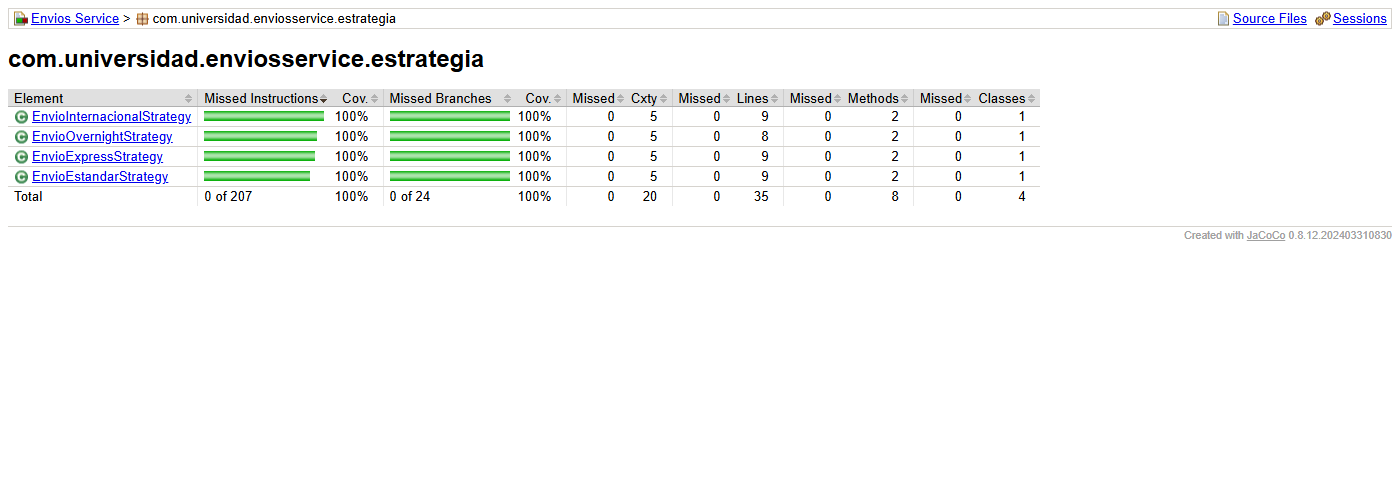
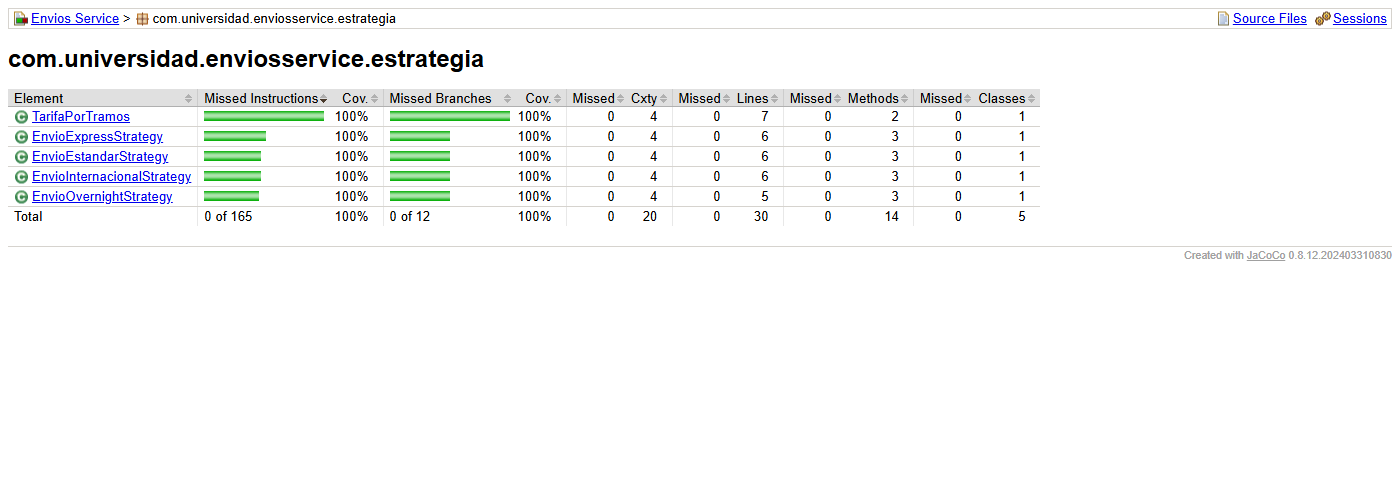
docs: actualizar README y capturas tras eliminar la duplicacion entre estrategias

diff --git a/README.md b/README.md
@@ -13,8 +13,9 @@ es medible.
 
 SonarQube Community Build 100 % local, en Docker (`sonarqube:community`, puerto 9000), versión del servidor
 26.11.0.134175, con el proyecto `Envios Service` (key `com.universidad:envios-service`).
-Las capturas y todas las cifras de este documento salen de dos ejecuciones reales de `mvn clean verify sonar:sonar`
-contra ese servidor (fecha de los análisis: 13 de noviembre de 2026).
+Las capturas y todas las cifras de este documento salen de tres ejecuciones reales de `mvn clean verify sonar:sonar`
+contra ese servidor, todas el 13 de noviembre de 2026: la versión `1.0` (código original), la `2.0` tras el refactor
+a Strategy y la `2.0` otra vez tras extraer la tarifa por tramos a un helper compartido para eliminar la duplicación.
 
 ## Estado inicial del análisis (Parte 1)
 
@@ -53,7 +54,7 @@ desde cualquier equipo, pero un proyecto público es visible para cualquiera y e
 ### 2. Exclusiones del análisis: ninguna
 
 No se usa `sonar.exclusions`. El proyecto no tiene clase `Main` ni código de arranque o de configuración: todas
-las clases (`ServicioCalculoEnvio` y, tras la Parte 2, las cuatro estrategias) son lógica de negocio, y excluir
+las clases (`ServicioCalculoEnvio` y, tras la Parte 2, las cuatro estrategias y el helper `TarifaPorTramos`) son lógica de negocio, y excluir
 cualquiera ocultaría justamente el código cuya calidad se quiere medir. Si más adelante apareciera una clase de
 arranque sin lógica propia, excluirla evitaría que su ausencia de pruebas distorsione el porcentaje global.
 
@@ -74,9 +75,16 @@ Se contrastó la naturaleza real de los condicionales de `calcularCosto()` con l
 Qué se movió y qué se quedó, y por qué:
 
 - **A las estrategias** (`EnvioEstandarStrategy`, `EnvioExpressStrategy`, `EnvioOvernightStrategy`,
-  `EnvioInternacionalStrategy`): la tarifa por tramos de peso y los recargos que dependen del método (distancia
-  mayor a 500 km en ESTANDAR y EXPRESS, multiplicador 1,3 de EXPRESS, restricción de 300 km de OVERNIGHT, recargo de
-  5 000 km de INTERNACIONAL). Es lo que cambia cuando cambia "qué fórmula usar".
+  `EnvioInternacionalStrategy`): solo lo propio de cada método de envío, es decir, sus parámetros de tarifa (una
+  constante `TARIFA`) y los recargos o restricciones que dependen del método (distancia mayor a 500 km en ESTANDAR y
+  EXPRESS, multiplicador 1,3 de EXPRESS, restricción de 300 km de OVERNIGHT, recargo de 5 000 km de INTERNACIONAL).
+  Es lo que cambia cuando cambia "qué fórmula usar".
+- **Al helper compartido** (`TarifaPorTramos`, un `record` del paquete `estrategia` con `porKm`, `cargoFijo`,
+  `tarifaTramo2` y `tarifaTramo3`): el cálculo lineal por tramos de peso (≤ 5 kg, ≤ 20 kg, > 20 kg), que las cuatro
+  estrategias tenían escrito con la misma estructura y solo cambiaban los números. En el primer análisis de la
+  versión 2.0 esa repetición hizo fallar el Quality Gate por duplicación (10,9 %); al extraerla, cada estrategia
+  se reduce a "tarifa + lo propio" y el patrón Strategy no cambia: el orquestador sigue eligiendo una estrategia
+  por método de envío.
 - **Al orquestador** (`ServicioCalculoEnvio`): la fragilidad (+15 %) y el descuento por tipo de cliente. Son
   reglas transversales: se aplican igual a todos los métodos de envío. Meterlas en cada estrategia las
   duplicaría cuatro veces y obligaría a tocar cuatro clases cada vez que cambie el descuento PREMIUM.
@@ -84,6 +92,12 @@ Qué se movió y qué se quedó, y por qué:
 Por eso la complejidad de `calcularCosto()` no baja a 1: su CC esperada es 5 (1 base + estrategia nula +
 fragilidad + los dos tramos de `tipoCliente`), dentro del rango "Moderada" de la Tabla 3.2 de la guía.
 Resultado medido: 20 → 5.
+
+CC medida de las clases nuevas en el análisis final: cada estrategia vale **2** (1 base + su único recargo o
+restricción) y `TarifaPorTramos.costo()` vale **3** (1 base + los dos límites de peso). En el primer análisis de la
+versión 2.0, cuando cada estrategia tenía sus propios tramos, cada una medía 4. `TarifaPorTramos` no tiene pruebas
+propias: sus tres tramos y sus límites quedan cubiertos al 100 % por las pruebas de las cuatro estrategias, que no
+se modificaron.
 
 ### 5. Criterio de las pruebas agregadas
 
@@ -128,7 +142,7 @@ exactamente el mismo costo o la misma excepción con el mismo mensaje.
 - **Por qué CC = 10 por método y no 5 o 20.** Según la Tabla 3.2 de la guía, 10 es el techo del rango "Moderada"
   (5–10) y 20 es el techo del rango "Alta": con 20 el método original (CC = 20) habría estado en el
   límite y nada habría obligado a refactorizarlo; con 5 se exigiría reescribir métodos todavía razonables de
-  mantener, como cada estrategia (CC = 4) más cualquier cambio futuro. Con 10 el método original se señala
+  mantener, como `TarifaPorTramos.costo()` (CC = 3) o cada estrategia (CC = 2), más cualquier cambio futuro. Con 10 el método original se señala
   claramente y los resultantes pasan con margen. 10 es además el valor por defecto del parámetro de la regla S1541.
 - **Por qué 70 % de cobertura y no 100 %.** Exigir 100 % empuja a escribir pruebas triviales solo para llenar el
   número (los incentivos perversos de la Sección 2.3 de la guía); 70 % deja margen para código de
@@ -138,28 +152,40 @@ exactamente el mismo costo o la misma excepción con el mismo mensaje.
 - **Qué mide y qué no.** El gate de cobertura mide ejecución, no verificación: una suite con aserciones vacías
   también lo pasaría, por eso el criterio de la Decisión 5 (valores esperados calculados e independientes) es
   complementario y no está en el gate.
-- **Resultado del gate en el segundo análisis: Failed.** Detalle de cada condición según `api/qualitygates/project_status`:
-
-  - **Coverage (código total): cumple.** Valor real 100,0 % frente al mínimo de 70 % (48 de 48 líneas y 32 de 32 ramas).
-  - **New Code Smells (código nuevo desde la versión 1.0): cumple.** Valor real 0; ningún método supera CC = 10 (el máximo es 5), así que S1541 no levanta issues.
-  - **Duplicated Lines (%) (código total): falla.** Valor real 10,9 % frente al máximo de 5 %. Son 24 líneas duplicadas de 221: un bloque de 12 líneas (líneas 5–16) que el detector de duplicados (CPD) encuentra idéntico en `EnvioEstandarStrategy` y `EnvioExpressStrategy`. CPD compara la estructura e ignora los literales, y ambas estrategias tienen exactamente la misma forma: tres tramos de peso más un recargo por encima de 500 km, con tarifas distintas. El denominador incluye las 77 líneas de `pom.xml`; sin él el porcentaje sería aún mayor. No hay Code Smells que corregir y la duplicación no se puede eliminar sin cambiar el diseño (habría que introducir una clase base de "tarifa por tramos" o una tabla de tarifas, algo que el laboratorio no pide), por eso no se siguió refactorizando y el umbral no se bajó. El gate cumple su función: señala una deuda real que la métrica de complejidad no muestra.
+- **Resultado del gate en el primer análisis de la versión 2.0 (tras el refactor a Strategy): Failed.**
+  - Coverage: 100,0 % (mínimo 70 %). Cumple.
+  - New Code Smells: 0. Cumple.
+  - **Duplicated Lines (%): 10,9 % (máximo 5 %). Falla.** Había 24 líneas duplicadas de 221: un bloque de 12 líneas
+    (líneas 5–16) que el detector de duplicados (CPD) encontraba idéntico en `EnvioEstandarStrategy` y
+    `EnvioExpressStrategy`. CPD compara la estructura e ignora los literales, y las estrategias repetían la misma
+    forma: tres tramos de peso más un recargo, con tarifas distintas.
+- **Corrección.** Se extrajo el cálculo por tramos a `TarifaPorTramos` (commit
+  `refactor: extraer la tarifa por tramos de peso a un helper compartido por las estrategias`). No cambió el patrón,
+  ni `ServicioCalculoEnvio`, ni ninguna prueba. Las 43 pruebas siguieron pasando, y la malla de 14 112 combinaciones
+  contra la clase original volvió a dar 0 diferencias. No se bajó ningún umbral.
+- **Resultado del gate en el análisis final (versión 2.0, tras el helper): Passed.** Detalle de cada condición
+  según `api/qualitygates/project_status`:
+  - **Coverage (código total): cumple.** Valor real 100,0 % frente al mínimo de 70 % (43 de 43 líneas y 20 de 20 ramas).
+  - **New Code Smells (código nuevo desde la versión 1.0): cumple.** Valor real 0; ningún método supera CC = 10 (el
+    máximo es 5, `calcularCosto()`), así que S1541 no levanta issues.
+  - **Duplicated Lines (%) (código total): cumple.** Valor real 0,0 % frente al máximo de 5 % (0 líneas duplicadas de 219).
 
 ## Comparación antes / después
 
-| Métrica | Antes (Parte 1) | Después (Parte 2) |
-|---------|------------------|--------------------|
-| Complejidad ciclomática de `calcularCosto()` | 20 | 5 (75 % menos) |
-| Complejidad ciclomática máxima de un método (clases nuevas) | — | 4 (`calcular()` de cada una de las cuatro estrategias) |
-| Complejidad cognitiva de `calcularCosto()` | 32 | 4 |
-| Cobertura de líneas de la lógica de envío | 23,8 % (10 de 42) | 100 % (48 de 48) |
-| Cobertura de ramas de la lógica de envío | 18,4 % | 100 % (32 de 32) (+81,6 puntos) |
-| Code Smells (perfil Java usado) | 0 ("Sonar way core", predeterminado) | 0 ("Estándar Laboratorio" = Sonar way core + S1541) |
-| Duplicación | 0,0 % | 10,9 % (24 de 221 líneas) |
-| Pruebas | 2 | 43 |
-| Quality Gate "Estándar Laboratorio" | — | Failed |
+| Métrica | Antes (v1.0) | Tras el refactor a Strategy (v2.0, 1.er análisis) | Final (v2.0, tras `TarifaPorTramos`) |
+|---------|--------------|----------------------------------------------------|---------------------------------------|
+| Complejidad ciclomática de `calcularCosto()` | 20 | 5 | 5 (75 % menos que al inicio) |
+| Complejidad ciclomática máxima de un método (clases nuevas) | — | 4 (`calcular()` de cada estrategia) | 3 (`TarifaPorTramos.costo()`); cada estrategia 2 |
+| Complejidad cognitiva de `calcularCosto()` | 32 | 4 | 4 |
+| Cobertura de líneas de la lógica de envío | 23,8 % (10 de 42) | 100 % (48 de 48) | 100 % (43 de 43) |
+| Cobertura de ramas de la lógica de envío | 18,4 % (7 de 38) | 100 % (32 de 32) | 100 % (20 de 20), +81,6 puntos |
+| Code Smells (perfil Java usado) | 0 ("Sonar way core", predeterminado) | 0 ("Estándar Laboratorio" = Sonar way core + S1541) | 0 ("Estándar Laboratorio") |
+| Duplicación | 0,0 % | **10,9 %** (24 de 221 líneas) | **0,0 %** (0 de 219 líneas) |
+| Pruebas | 2 | 43 | 43 |
+| Quality Gate "Estándar Laboratorio" | — | **Failed** (duplicación) | **Passed** |
 
-**Importante sobre los perfiles.** El "antes" se midió con el perfil por defecto de esta versión ("Sonar way core") y el
-"después" con "Estándar Laboratorio" (la misma base más S1541 con umbral 10). Los dos análisis dan 0 Code Smells, pero
+**Importante sobre los perfiles.** El "antes" se midió con el perfil por defecto de esta versión ("Sonar way core") y
+los dos análisis de la versión 2.0 con "Estándar Laboratorio" (la misma base más S1541 con umbral 10). Todos los análisis dan 0 Code Smells, pero
 esos ceros no son comparables entre sí y no deben leerse como una mejora del código: con el perfil por defecto el
 método original no generaba ningún issue porque ese perfil no incluye reglas de complejidad. Con S1541 activa, el
 método original (CC = 20) habría superado el umbral de 10, aunque eso no se midió porque el perfil se asignó después
@@ -176,6 +202,10 @@ medido: 75 % de reducción y +81,6 puntos de cobertura de ramas; ambas metas se 
 | ![Dashboard inicial](docs/sonar-dashboard-inicial.png) | ![Dashboard final](docs/sonar-dashboard-final.png) |
 | ![JaCoCo inicial](docs/jacoco-inicial.png) | ![JaCoCo final](docs/jacoco-final.png) |
 
+Primer análisis de la versión 2.0, antes de extraer `TarifaPorTramos`: gate **Failed** con 10,9 % de líneas duplicadas.
+
+![Gate fallido en el primer análisis de v2.0](docs/sonar-gate-fallido-inicial.png)
+
 Configuración del servidor para la Parte 2: la regla S1541 activa en el perfil "Estándar Laboratorio" con `Threshold = 10`, y el Quality Gate "Estándar Laboratorio" con sus tres condiciones, asignado al proyecto.
 
 ![Regla S1541 con umbral 10 en el perfil Estándar Laboratorio](docs/quality-profile-s1541.png)
@@ -189,7 +219,7 @@ El resumen de SonarQube no muestra la complejidad, por eso también se incluye l
 | ![Resumen JaCoCo inicial](docs/jacoco-inicial-resumen.png) | ![Resumen JaCoCo final](docs/jacoco-final-resumen.png) |
 | | ![JaCoCo ServicioCalculoEnvio final](docs/jacoco-final-servicio.png) |
 
-En el reporte JaCoCo de cada estrategia la columna *Cxty* de la clase vale 5 porque suma el constructor implícito (1); la del método `calcular` es 4, la misma que reporta SonarQube.
+En el reporte JaCoCo final la columna *Cxty* de cada estrategia vale 4 porque suma el constructor implícito (1) y el inicializador estático de la constante `TARIFA` (1) al método `calcular` (2), y la de `TarifaPorTramos` vale 4 porque suma su constructor (1) a `costo` (3). Los valores por método (2 y 3) coinciden con los que reporta SonarQube.
 
 ## Ajustes deliberados sobre la guía
 
@@ -214,8 +244,18 @@ Desviaciones adicionales encontradas con SonarQube 26.11.0.134175:
 5. **Perfil base "Sonar way core".** En esta versión no existe un perfil Java llamado "Sonar way": hay "Sonar way core" (el predeterminado, 263 reglas), "Sonar way extended", "Sonar way comprehensive" y "Sonar agentic AI". "Estándar Laboratorio" se creó como copia de "Sonar way core" y se le agregó S1541 (264 reglas activas).
 6. **Condiciones automáticas del Quality Gate.** Al crear un gate, esta versión le agrega cuatro condiciones "Clean as You Code" (`new_coverage < 80`, `new_duplicated_lines_density > 3`, `new_security_hotspots_reviewed < 100`, `new_violations > 0`). Se eliminaron **antes** del segundo análisis, sin conocer aún su resultado, para que el gate tuviera exactamente las tres condiciones del diseño. Ningún umbral de las tres condiciones se modificó.
 7. **API.** `qualityprofiles/add_project` ya no acepta `key` y exige `language` + `qualityProfile` (nombre); el nombre "Estándar Laboratorio" se envió codificado en UTF-8 (`Est%C3%A1ndar`) porque el terminal de Windows lo mandaba en Latin-1 y el servidor respondía HTTP 500.
-8. **Sin cambios al código del material.** El código de `etapa1/` y `etapa2/` se usó tal cual. La equivalencia del refactor se comprobó fuera del repositorio con una malla de 14 112 combinaciones (7 métodos, incluidos tres inválidos; 14 pesos; 18 distancias, con los límites 5, 20, 300, 500 y 5 000 y sus vecinos; 4 tipos de cliente; fragilidad sí/no): 0 diferencias en el costo (comparación exacta del `double`) ni en el tipo o mensaje de la excepción.
-9. **Entorno.** Se compiló con JDK 22.0.2 (el `pom.xml` fija `release 21`) y Maven 3.9.16. SonarQube advierte que `sonar-maven-plugin 3.11.0.3922` está desactualizado; no se cambió para no alterar el `pom.xml` del material, y el análisis terminó sin errores.
+8. **Un cambio al código del material: `TarifaPorTramos`.** El código de `etapa1/` se usó tal cual, y el de
+   `etapa2/` también hasta el primer análisis de la versión 2.0. Como ese análisis falló el gate por duplicación
+   (10,9 %), se agregó el helper `TarifaPorTramos` y las cuatro estrategias pasaron a usarlo. No se tocaron
+   `ServicioCalculoEnvio` ni las pruebas. La equivalencia se comprobó fuera del repositorio con una malla de 14 112
+   combinaciones (7 métodos, incluidos tres inválidos; 14 pesos; 18 distancias, con los límites 5, 20, 300, 500 y
+   5 000 y sus vecinos; 4 tipos de cliente; fragilidad sí/no). Se ejecutó tanto después del refactor a Strategy como
+   después del helper, y las dos veces dio 0 diferencias en el costo (comparación exacta del `double`) y en el tipo
+   y mensaje de la excepción.
+9. **Entorno y versión del plugin.** Se compiló con JDK 22.0.2 (el `pom.xml` fija `release 21`) y Maven 3.9.16. En
+   los dos primeros análisis SonarQube advertía que `sonar-maven-plugin 3.11.0.3922` estaba desactualizado. En el
+   mismo commit del helper se actualizó a **5.8.0.7211** (la última versión estable en Maven Central), y en el
+   análisis final la tarea de cómputo terminó sin ningún aviso.
 
 ## Cómo reproducirlo
 
@@ -231,9 +271,9 @@ El token no se guarda en el repositorio.
 ## Herramientas utilizadas
 
 - Java 21, Apache Maven, JUnit 5 (incluye pruebas parametrizadas)
-- SonarQube Community Build (Docker), JaCoCo 0.8.12, sonar-maven-plugin 3.11.0.3922
+- SonarQube Community Build (Docker), JaCoCo 0.8.12, sonar-maven-plugin 5.8.0.7211 (3.11.0.3922 en los dos primeros análisis)
 - Git, GitHub
 
 ## Conclusiones
 
-Las métricas se leen mejor por separado: la complejidad ciclomática (20) explicaba por qué la cobertura de ramas era tan baja (18,4 %), mientras que la ausencia de Code Smells en el primer análisis solo indicaba que el perfil por defecto no incluía reglas de complejidad, no que el código estuviera sano. El patrón se eligió por la naturaleza de los condicionales: ramas excluyentes, sin estado y elegidas una sola vez por un valor discreto apuntaban a Strategy, y el resultado fue una reducción medida de 20 a 5 (75 %) sin cambiar el comportamiento en 14 112 combinaciones de entrada. La cobertura del 100 % es significativa porque cada prueba verifica un valor calculado de forma independiente y los valores límite, no porque se haya perseguido el número. El Quality Gate funcionó como piso y no como objetivo: falló por la duplicación estructural entre dos estrategias, una deuda que ni la complejidad ni la cobertura muestran, y también dejó ver su límite, porque mide forma y ejecución, no si las pruebas verifican algo.
+Las métricas se leen mejor por separado: la complejidad ciclomática (20) explicaba por qué la cobertura de ramas era tan baja (18,4 %), mientras que la ausencia de Code Smells en el primer análisis solo indicaba que el perfil por defecto no incluía reglas de complejidad, no que el código estuviera sano. El patrón se eligió por la naturaleza de los condicionales: ramas excluyentes, sin estado y elegidas una sola vez por un valor discreto apuntaban a Strategy, y el resultado fue una reducción medida de 20 a 5 (75 %) sin cambiar el comportamiento en 14 112 combinaciones de entrada. La cobertura del 100 % es significativa porque cada prueba verifica un valor calculado de forma independiente y los valores límite, no porque se haya perseguido el número. El Quality Gate funcionó como piso y no como objetivo: en el primer análisis de la versión 2.0 falló por la duplicación estructural entre estrategias (10,9 %), una deuda que ni la complejidad ni la cobertura mostraban. Se corrigió extrayendo la tarifa por tramos a un helper compartido, sin bajar el umbral, y el análisis final pasa con 0,0 % de duplicación. El gate también deja ver su límite, porque mide forma y ejecución, no si las pruebas verifican algo.
